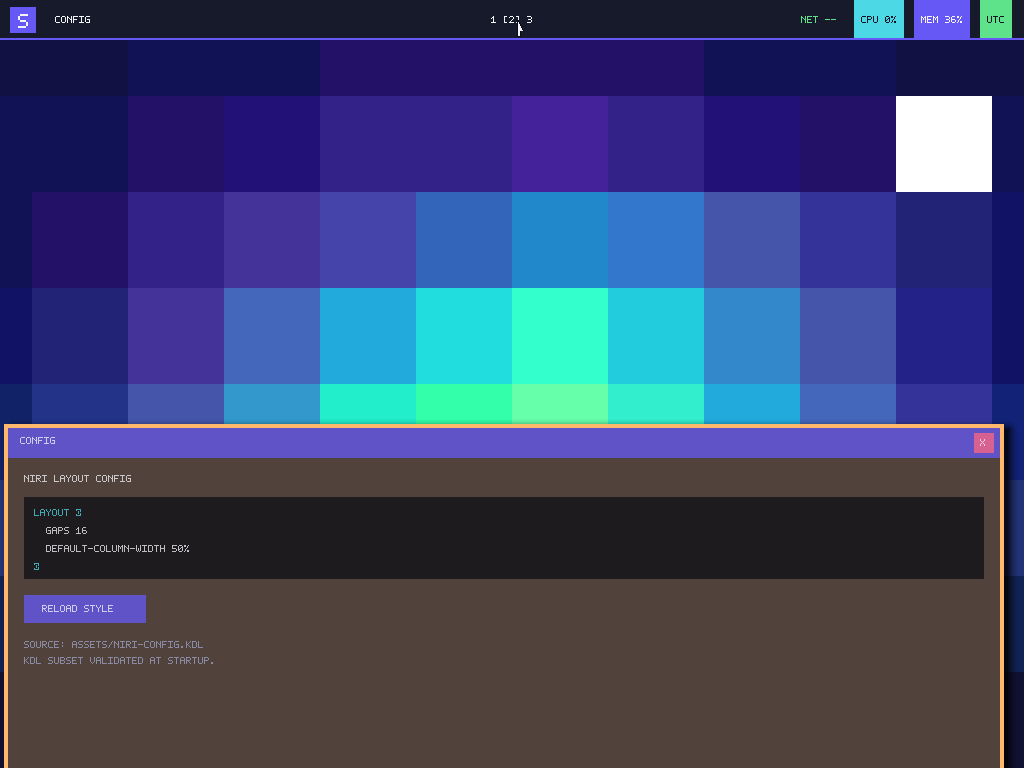
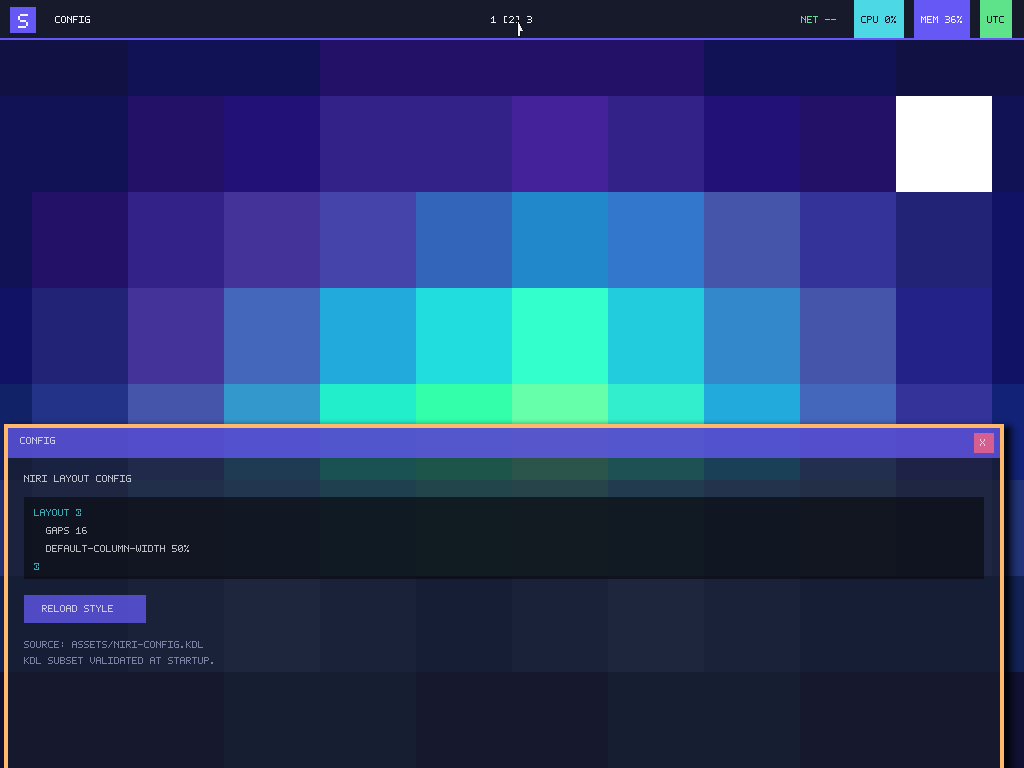
feat(desktop): honor niri border background rules

Changed region(s): [[0.0, 0.5938, 1.0, 1.0]]

diff --git a/kernel/src/desktop.rs b/kernel/src/desktop.rs
@@ -124,6 +124,8 @@ impl Desktop {
             let focus_ring = niri.window_rules.focus_ring_for(app_id, config.focus_ring);
             let border = niri.window_rules.border_for(app_id, config.border);
             let shadow = niri.window_rules.shadow_for(app_id, config.shadow);
+            let draw_border_with_background =
+                niri.window_rules.draw_border_with_background_for(app_id);
             let opacity = niri.window_rules.opacity_for(app_id);
             let floating_position = niri.window_rules.floating_position_for(app_id);
             let floating =
@@ -264,6 +266,11 @@ impl Desktop {
                     shadow.color.opacity,
                     resolved_shadow_color(shadow, false).rgb,
                     resolved_shadow_color(shadow, false).opacity
+                ));
+            }
+            if let Some(draw_border_with_background) = draw_border_with_background {
+                serialln(format_args!(
+                    "SLOPOS-NIRI: window rule app_id={app_id} property=draw-border-with-background value={draw_border_with_background} applied=true source=config"
                 ));
             }
             if let Some(opacity) = opacity {
@@ -844,6 +851,8 @@ impl Desktop {
             let focus_ring = niri.window_rules.focus_ring_for(app_id, layout.focus_ring);
             let border = niri.window_rules.border_for(app_id, layout.border);
             let shadow = niri.window_rules.shadow_for(app_id, layout.shadow);
+            let draw_border_with_background =
+                niri.window_rules.draw_border_with_background_for(app_id);
             let opacity = niri.window_rules.opacity_for(app_id);
             let floating_position = niri.window_rules.floating_position_for(app_id);
             let floating = niri
@@ -995,6 +1004,11 @@ impl Desktop {
                     shadow.color.opacity,
                     resolved_shadow_color(shadow, false).rgb,
                     resolved_shadow_color(shadow, false).opacity
+                ));
+            }
+            if let Some(draw_border_with_background) = draw_border_with_background {
+                serialln(format_args!(
+                    "SLOPOS-NIRI: window rule app_id={app_id} property=draw-border-with-background value={draw_border_with_background} applied=true source=config"
                 ));
             }
             if let Some(opacity) = opacity {
@@ -1239,16 +1253,20 @@ impl Desktop {
             .window_rules
             .shadow_for(app_id(window.kind), self.workspaces.config().shadow)
             .unwrap_or(self.workspaces.config().shadow);
+        let draw_border_with_background = self
+            .niri
+            .window_rules
+            .draw_border_with_background_for(app_id(window.kind))
+            .unwrap_or(true);
         let opacity = self
             .niri
             .window_rules
             .opacity_for(app_id(window.kind))
             .unwrap_or(1000);
         Self::render_shadow(framebuffer, window, shadow, active);
-        // Like niri's default draw-border-with-background mode, decorations
-        // are compositor backgrounds: a translucent surface shows them
-        // through rather than changing their own opacity. Focus ring is only
-        // on the focused window; border remains visible on every window.
+        // With niri's default background mode, translucent client pixels show
+        // the solid compositor decoration underneath. A false window-rule
+        // instead restricts decoration to the area outside the client rect.
         let border_width = if border.enabled {
             i32::from(border.width)
         } else {
@@ -1257,26 +1275,51 @@ impl Desktop {
         if active && focus_ring.enabled {
             let width = i32::from(focus_ring.width);
             let extent = border_width + width;
-            framebuffer.rect(
-                window.x - extent,
-                window.y - extent,
-                window.width + extent * 2,
-                window.height + extent * 2,
-                focus_ring.active_color,
-            );
+            if border.enabled || !draw_border_with_background {
+                render_outline(
+                    framebuffer,
+                    window.x - border_width,
+                    window.y - border_width,
+                    window.width + border_width * 2,
+                    window.height + border_width * 2,
+                    width,
+                    focus_ring.active_color,
+                );
+            } else {
+                framebuffer.rect(
+                    window.x - extent,
+                    window.y - extent,
+                    window.width + extent * 2,
+                    window.height + extent * 2,
+                    focus_ring.active_color,
+                );
+            }
         }
         if border.enabled {
-            framebuffer.rect(
-                window.x - border_width,
-                window.y - border_width,
-                window.width + border_width * 2,
-                window.height + border_width * 2,
-                if active {
-                    border.active_color
-                } else {
-                    border.inactive_color
-                },
-            );
+            let color = if active {
+                border.active_color
+            } else {
+                border.inactive_color
+            };
+            if draw_border_with_background {
+                framebuffer.rect(
+                    window.x - border_width,
+                    window.y - border_width,
+                    window.width + border_width * 2,
+                    window.height + border_width * 2,
+                    color,
+                );
+            } else {
+                render_outline(
+                    framebuffer,
+                    window.x,
+                    window.y,
+                    window.width,
+                    window.height,
+                    border_width,
+                    color,
+                );
+            }
         }
         let previous_opacity = framebuffer.set_opacity(opacity);
         framebuffer.rect(window.x, window.y, window.width, window.height, WINDOW_ALT);
@@ -3021,6 +3064,33 @@ fn module_selector(module: &str) -> &'static str {
 
 fn inside(x: i32, y: i32, window: Window) -> bool {
     x >= window.x && x < window.x + window.width && y >= window.y && y < window.y + window.height
+}
+
+fn render_outline(
+    framebuffer: &mut Framebuffer,
+    x: i32,
+    y: i32,
+    width: i32,
+    height: i32,
+    thickness: i32,
+    color: u32,
+) {
+    if thickness <= 0 || width <= 0 || height <= 0 {
+        return;
+    }
+    let outer_x = x.saturating_sub(thickness);
+    let outer_y = y.saturating_sub(thickness);
+    let outer_width = width.saturating_add(thickness.saturating_mul(2));
+    framebuffer.rect(outer_x, outer_y, outer_width, thickness, color);
+    framebuffer.rect(
+        outer_x,
+        y.saturating_add(height),
+        outer_width,
+        thickness,
+        color,
+    );
+    framebuffer.rect(outer_x, y, thickness, height, color);
+    framebuffer.rect(x.saturating_add(width), y, thickness, height, color);
 }
 
 fn axis_distance(coordinate: i32, start: i32, length: i32) -> i32 {

diff --git a/crates/shell/src/niri.rs b/crates/shell/src/niri.rs
@@ -292,6 +292,7 @@ pub struct NiriWindowRule<'a> {
     pub shadow_draw_behind_window: Option<bool>,
     pub shadow_color: Option<ShadowColor>,
     pub shadow_inactive_color: Option<ShadowColor>,
+    pub draw_border_with_background: Option<bool>,
     pub opacity: Option<i32>,
     pub default_floating_position: Option<FloatingPosition>,
     pub default_column_width: Option<ColumnWidth>,
@@ -521,6 +522,18 @@ impl<'a> NiriWindowRuleList<'a> {
             }
         }
         opacity
+    }
+
+    pub fn draw_border_with_background_for(self, app_id: &str) -> Option<bool> {
+        let mut draw_with_background = None;
+        for rule in self.entries[..self.length].iter().flatten() {
+            if rule.app_id.is_none() || rule.app_id == Some(app_id) {
+                if let Some(value) = rule.draw_border_with_background {
+                    draw_with_background = Some(value);
+                }
+            }
+        }
+        draw_with_background
     }
 
     pub fn column_width_for(self, app_id: &str) -> Option<ColumnWidth> {
@@ -789,6 +802,7 @@ impl<'a> ShellConfigParser<'a> {
             shadow_draw_behind_window: None,
             shadow_color: None,
             shadow_inactive_color: None,
+            draw_border_with_background: None,
             opacity: None,
             default_floating_position: None,
             default_column_width: None,
@@ -867,6 +881,14 @@ impl<'a> ShellConfigParser<'a> {
                 KdlToken::Word("focus-ring") => self.parse_rule_focus_ring(&mut rule)?,
                 KdlToken::Word("border") => self.parse_rule_border(&mut rule)?,
                 KdlToken::Word("shadow") => self.parse_rule_shadow(&mut rule)?,
+                KdlToken::Word("draw-border-with-background") => {
+                    rule.draw_border_with_background = Some(match self.next() {
+                        KdlToken::Word("true") => true,
+                        KdlToken::Word("false") => false,
+                        _ => return Err(NiriConfigError::InvalidWindowRule),
+                    });
+                    self.finish_node()?;
+                }
                 KdlToken::Word("opacity") => {
                     let KdlToken::Word(value) = self.next() else {
                         return Err(NiriConfigError::InvalidWindowRule);
@@ -3260,6 +3282,7 @@ mod tests {
                     color "#1238"
                     inactive-color "#10203040"
                 }
+                draw-border-with-background true
                 default-floating-position x=10 y=20
                 default-column-width { fixed 600; }
                 default-window-height { fixed 400; }
@@ -3292,6 +3315,7 @@ mod tests {
                     draw-behind-window false
                     inactive-color "#4455"
                 }
+                draw-border-with-background false
                 default-floating-position x=-10.4 y=200 relative-to="bottom-left"
                 default-column-width { proportion 0.333; }
                 default-window-height { proportion 0.333; }
@@ -3807,6 +3831,18 @@ mod tests {
         );
         assert_eq!(config.window_rules.opacity_for("slopos-config"), Some(500));
         assert_eq!(
+            config
+                .window_rules
+                .draw_border_with_background_for("slopos-terminal"),
+            Some(true)
+        );
+        assert_eq!(
+            config
+                .window_rules
+                .draw_border_with_background_for("slopos-config"),
+            Some(false)
+        );
+        assert_eq!(
             config.window_rules.focus_ring_for(
                 "slopos-terminal",
                 FocusRing {
@@ -3992,6 +4028,10 @@ mod tests {
         );
         assert_eq!(
             parse_niri_shell_config("window-rule { open-focused maybe; }"),
+            Err(NiriConfigError::InvalidWindowRule)
+        );
+        assert_eq!(
+            parse_niri_shell_config("window-rule { draw-border-with-background maybe; }"),
             Err(NiriConfigError::InvalidWindowRule)
         );
         for input in [

diff --git a/evidence/README.md b/evidence/README.md
@@ -7,7 +7,7 @@
 | `serial.log` | `make test-boot` | OVMF/UEFI、ELF、`ExitBootServices`、XSDT/MADT、memory、两个常驻 CPL3 进程、cooperative/timer switch、policy/config event、eBPF、PCI/virtio INTx、ext4、async 与桌面循环 |
 | `uefi-debugcon.log` | `make test-boot` | loader 独立 debugcon 日志 |
 | `interaction-serial.log` | `make test-interaction` | PS/2 键盘触发 VFS 配置 reload/rollback、embedded 与 root-VFS swww image/clear/query、missing-path 保留旧图，鼠标横拖 viewport、Super+右键缩放、点击 Waybar workspace，`cooldown-ms=150` 双包限流、keyboard 与四组 Mod+IntelliMouse bind 驱动首末列导航/重排、PageUp/PageDown workspace identity 重排、整列/单窗跨 workspace 转移、tiled/floating full-output 与精确恢复、显式与 toggle tiled/floating layer、normal/tabbed display、固定与左右方向合并/拆列、显式/preset 窗高/reset/重排/聚焦、gap-aware resize/maximize/center/expand 与关闭 |
-| `custom-config-serial.log` | `make test-desktop-custom-config` | 4076-byte niri override 的 rule size/tabbed display、`open-focused true`、三种几何 `open-* true` state、`opacity 0.75`、4 px active border、softness/offset/spread/RGBA shadow、`default-floating-position` 与 `focus-ring off` 和 1300-byte Waybar override 一起从临时 ext4 原子应用；记录 Config 自动激活 workspace 2、全屏 decoration/opacity 例外、三级恢复、右下 24px 锚点及移动后位置记忆，Waybar 则经 PID 2 分块 hash、两代 policy、left/center placement、alternate format 与三键/双向滚轮 action 生效 |
+| `custom-config-serial.log` | `make test-desktop-custom-config` | 4082-byte niri override 的 rule size/tabbed display、`open-focused true`、三种几何 `open-* true` state、`opacity 0.75`、`draw-border-with-background false`、4 px active border、softness/offset/spread/RGBA shadow、`default-floating-position` 与 `focus-ring off` 和 1300-byte Waybar override 一起从临时 ext4 原子应用；记录 Config 自动激活 workspace 2、全屏 decoration/opacity 例外、三级恢复、右下 24px 锚点及移动后位置记忆，Waybar 则经 PID 2 分块 hash、两代 policy、left/center placement、alternate format 与三键/双向滚轮 action 生效 |
 | `custom-config-uefi-debugcon.log` / `custom-config-qemu.log` | `make test-desktop-custom-config` | 自定义配置回归的 loader 与 QEMU 输出 |
 | `page-fault-serial.log` | `make test-page-fault` | 自有页表的未映射访问、vector 14、error、RIP、CR2 与 fatal boundary |
 | `journal-injection-serial.log` | `make test-journal-replay` phase 1 | commit 已 flush、home 尚未 checkpoint 的 dirty disk |
@@ -71,7 +71,7 @@
 | `waybar-workspace-click.png` | `make test-interaction` | 点击顶部数字 `2` 后 `niri/workspaces` 显示 active 2，并切入 Config surface |
 | `custom-config-workspace-click.png` | `make test-desktop-custom-config` | KDL `open-focused true` 在配置发布时直接激活 workspace `2`，并显示由 `open-fullscreen true` 产生的 Config x=0/y=0/1024×768；测试对被覆盖 bar 的点击不会导致这个状态，Waybar、装饰与兄弟窗均不可见；x=200/y=350 像素为不透明 `171c2b`，证明 fullscreen 忽略 `opacity 0.75` |
 | `custom-config-edge-maximized.png` | `make test-desktop-custom-config` | 对初始 fullscreen Config 执行 `Mod+Shift+F` 后，精确恢复底层 x=0/y=40/1024×728 edge maximize；Waybar 重新可见，layout gap/border 仍移除 |
-| `custom-config-default-column-width.png` | `make test-desktop-custom-config` | 再执行 `Mod+M` 与 `Mod+F` 后，先恢复底层 992×340 column maximize，再恢复 KDL app rule 的 66.7%×50% 初始尺寸 x=184/y=56/656×340；左侧单 tab 指示条仍可见，Config 的青色 focus ring 按规则消失，4 px `ffb86c` active border 与向右下偏移的软阴影可见；default background-mode 下 `opacity 0.75` 让 border 背景透过 surface，脚本精确核对 x=200/800、y=350 均为 `51433b`，x=182/y=350 为 `ffb86c`，x=844/y=200 为 shadow 合成后的 `0a0a1f`，第二次 `Mod+F` 只把宽度恢复为 992 px |
+| `custom-config-default-column-width.png` | `make test-desktop-custom-config` | 再执行 `Mod+M` 与 `Mod+F` 后，先恢复底层 992×340 column maximize，再恢复 KDL app rule 的 66.7%×50% 初始尺寸 x=184/y=56/656×340；左侧单 tab 指示条仍可见，Config 的青色 focus ring 按规则消失，4 px `ffb86c` active border 与向右下偏移的软阴影可见；`draw-border-with-background false` 让 `opacity 0.75` 的 surface 透出壁纸，脚本精确核对 x=200/800、y=350 分别为 `222247`/`222a4b`，x=182/y=350 为 `ffb86c`，x=844/y=200 为 shadow 合成后的 `0a0a1f`，第二次 `Mod+F` 只把宽度恢复为 992 px |
 | `custom-config-floating-position.png` | `make test-desktop-custom-config` | `Mod+Alt+V` 对 992×340 Config 应用 `x=24 y=24 relative-to="bottom-right"`，得到 x=8/y=404，精确保留右、下各 24 px working-area 间距 |
 | `custom-config-floating-remembered.png` | `make test-desktop-custom-config` | Config 向下移动到 y=428 后经历 floating→tiling→floating，仍恢复 x=8/y=428，而不是重新应用默认 y=404 |
 | `custom-config-on-click.png` | `make test-desktop-custom-config` | JSONC 为右侧 clock 配置 `format-alt: UTC ALT` 与 `on-click: status`；同一次左击切到 alternate format、显示 STATUS 响应，并保留 Terminal 中尚未执行的 `ABO` |
@@ -110,13 +110,13 @@ qemu-system-x86_64
 
 PID 2 首轮打开 inode 20 Waybar JSONC，以 offset 0/256/512/768 的四个 chunk 读齐默认 904 bytes并验证 EOF，再打开 inode 17 swww environment，读齐默认 172 bytes并验证 EOF；读取器允许非空 Waybar/swww 分别扩展至 4096/512 bytes。`SLOPOS-DESKTOP-SERVICE` submission marker 记录 protocol 1、40-byte commit、`waybar-provider/swww-policy` capability、CPU 0、Memory 36、Aurora，以及实际 VFS hash `0xd34d4a92c88d065b`/`0xc5edd6e5c5369f52`；私有 syscall marker 记录编号 `1397489665` 与 result 0。第二个私有 syscall（`1397489666`）以 32-byte user buffer、event kind 与 `after_generation` 进入 Blocked；desktop task随后记录 snapshot generation 1、相同 owner/capability/provider 值及 kernel renderer boundary，swww marker 证明初始 Aurora 只在 policy 到达后应用。ack marker 再唤醒 block task，completion marker 记录 `Blocked → Runnable`、`policy-applied` generation 1；PID 2 decode event 后只在首次写一次 ready message，然后等待 `config-applied`。
 
-`make test-desktop-custom-config` 不修改仓库标准镜像：脚本复制 ESP/rootfs，用 `debugfs` 在临时 ext4 中把默认 3829-byte niri KDL 替换成 4076-byte 用户文件，将 Config 的 `open-maximized false`、`open-maximized-to-edges false`、`open-fullscreen false` 与 `open-focused false` 都改为 true、`default-column-width` 从 proportion 0.5 改为 0.667、`default-window-height` 从 proportion 1.0 改为 0.5、`default-column-display` 从 normal 改为 tabbed，并加入 `focus-ring { off; }`、4 px `#ffb86c` border、softness 8/spread 2/offset `(6,4)`/active `#000c`/inactive `#0006` shadow 与 `opacity 0.75`；同时把 inode 20 替换成 1300-byte、仍可解析的 Waybar JSONC，把 `niri/window`/`niri/workspaces` 分别放到 left/center，并为 clock 配置 `format-alt: UTC ALT`、三键与双向滚轮 action。config generation 1 marker 先记录 Config 因 `open-focused true` 在 workspace 2 成为 `focused=2 activated=true`，并依次记录 x=16/y=56/992×340 的 `mode=maximized-column`、x=0/y=40/1024×728 的 `mode=maximized-to-edges` 与 x=0/y=0/1024×768 的 `mode=fullscreen`；decoration/opacity marker 记录 active `0xffb86c`、border width 4、完整 shadow 参数与 `value=750/1000 fullscreen_ignored=true`。首张截图证明无需可见 Waybar 点击即可进入该状态，Waybar、装饰和兄弟窗被覆盖，脚本又核对 x=200/y=350 为不透明 surface 色 `171c2b`。`Mod+Shift+F` marker 与第二张截图恢复 edge state，`Mod+M` geometry log 再恢复 992×340，随后两次 `Mod+F` marker 记录 656→992；第三张截图证明中间列位于 x=184、规则高度保持 340、tab 指示条没有消失、窗口 focus ring 已关闭且 4 px 橙色 active border 与右下软阴影可见。niri 默认 background-mode 令 0.75-alpha `WINDOW_ALT` 与 border 背景合成；脚本核对同一 y=350 上 x=200/800 两点均为 `51433b`，x=182 为边框色 `ffb86c`，x=844/y=200 为 0.8-alpha 黑色 shadow 把 Aurora `333399` 合成后的 `0a0a1f`。随后首次移入 floating 得到 x=8/y=404/992×340 的右下 24px 锚点；向下移动到 y=428、送回 tiling 再移入 floating 后仍恢复该 rect，另两张截图与 applied/remembered marker 共同证明会话内位置记忆。`custom-config-serial.log` 还证明 IntelliMouse 协商为 `wheel=true`；PID 2 在 policy generation 1 与 config generation 1 唤醒后的 generation 2 都读到 1300 bytes，并两次提交新的 Waybar hash `0xb001e9dac40c640b`，而不是默认 `0xd34d4a92c88d065b`，swww hash 保持不变。末尾 marker 为 `desktop service parked ... after_generation=1`；退出 fullscreen 后真实 PS/2 点击中央 workspace `1`/`2`/`1` 往返，终端仍收到尚未执行的 `ABO`，证明强制 Config 焦点没有覆写 main 的旧 Terminal 局部焦点。左击右侧 clock 后日志先记录 `alternate=true text="UTC ALT"`，再记录 action accepted 与 `command=STATUS`，截图保留 `ABO` 输入；补入 `UT` 后又产生 `command=ABOUT`，右击产生 HELP，中击产生 SWWW QUERY；滚轮 `dz=-1/+1` 分别记录 `scroll-up/scroll-down`，无过渡切到 Sunset 再回 Aurora；第二次左击记录 `alternate=false text="UTC"` 并再次执行 STATUS。十一张截图覆盖 opening focus、fullscreen/edge/column/rule 四态与显示恢复、workspace、alternate 往返、输入保持/STATUS、HELP、query 与两向滚轮壁纸。全程没有 exit/FATAL，宿主 `e2fsck -fn` 也接受测试副本。这覆盖有效自定义 niri/Waybar 文件、app-specific 初始宽高/动态列显示/window focus ring/border/shadow/opacity/显式 opening focus/三级 opening state 恢复/浮动锚点与位置记忆、module placement、alternate format、点击几何、三键/滚轮受限 action 和输入缓冲保持，不覆盖自动文件监听、POSIX shell 或完整配置 schema。
+`make test-desktop-custom-config` 不修改仓库标准镜像：脚本复制 ESP/rootfs，用 `debugfs` 在临时 ext4 中把默认 3797-byte niri KDL 替换成 4082-byte 用户文件，将 Config 的 `open-maximized false`、`open-maximized-to-edges false`、`open-fullscreen false` 与 `open-focused false` 都改为 true、`default-column-width` 从 proportion 0.5 改为 0.667、`default-window-height` 从 proportion 1.0 改为 0.5、`default-column-display` 从 normal 改为 tabbed，并加入 `focus-ring { off; }`、4 px `#ffb86c` border、softness 8/spread 2/offset `(6,4)`/active `#000c`/inactive `#0006` shadow、`draw-border-with-background false` 与 `opacity 0.75`；同时把 inode 20 替换成 1300-byte、仍可解析的 Waybar JSONC，把 `niri/window`/`niri/workspaces` 分别放到 left/center，并为 clock 配置 `format-alt: UTC ALT`、三键与双向滚轮 action。config generation 1 marker 先记录 Config 因 `open-focused true` 在 workspace 2 成为 `focused=2 activated=true`，并依次记录 x=16/y=56/992×340 的 `mode=maximized-column`、x=0/y=40/1024×728 的 `mode=maximized-to-edges` 与 x=0/y=0/1024×768 的 `mode=fullscreen`；decoration/opacity marker 记录 active `0xffb86c`、border width 4、完整 shadow 参数、background-mode false 与 `value=750/1000 fullscreen_ignored=true`。首张截图证明无需可见 Waybar 点击即可进入该状态，Waybar、装饰和兄弟窗被覆盖，脚本又核对 x=200/y=350 为不透明 surface 色 `171c2b`。`Mod+Shift+F` marker 与第二张截图恢复 edge state，`Mod+M` geometry log 再恢复 992×340，随后两次 `Mod+F` marker 记录 656→992；第三张截图证明中间列位于 x=184、规则高度保持 340、tab 指示条没有消失、窗口 focus ring 已关闭且 4 px 橙色 active border 与右下软阴影可见。background-mode false 将 border 限制在 surface 外；脚本核对同一 y=350 上 x=200/800 两点分别为 0.75-alpha `WINDOW_ALT` 与 Aurora 不同采样块合成后的 `222247`/`222a4b`，x=182 为边框色 `ffb86c`，x=844/y=200 为 0.8-alpha 黑色 shadow 把 Aurora `333399` 合成后的 `0a0a1f`。随后首次移入 floating 得到 x=8/y=404/992×340 的右下 24px 锚点；向下移动到 y=428、送回 tiling 再移入 floating 后仍恢复该 rect，另两张截图与 applied/remembered marker 共同证明会话内位置记忆。`custom-config-serial.log` 还证明 IntelliMouse 协商为 `wheel=true`；PID 2 在 policy generation 1 与 config generation 1 唤醒后的 generation 2 都读到 1300 bytes，并两次提交新的 Waybar hash `0xb001e9dac40c640b`，而不是默认 `0xd34d4a92c88d065b`，swww hash 保持不变。末尾 marker 为 `desktop service parked ... after_generation=1`；退出 fullscreen 后真实 PS/2 点击中央 workspace `1`/`2`/`1` 往返，终端仍收到尚未执行的 `ABO`，证明强制 Config 焦点没有覆写 main 的旧 Terminal 局部焦点。左击右侧 clock 后日志先记录 `alternate=true text="UTC ALT"`，再记录 action accepted 与 `command=STATUS`，截图保留 `ABO` 输入；补入 `UT` 后又产生 `command=ABOUT`，右击产生 HELP，中击产生 SWWW QUERY；滚轮 `dz=-1/+1` 分别记录 `scroll-up/scroll-down`，无过渡切到 Sunset 再回 Aurora；第二次左击记录 `alternate=false text="UTC"` 并再次执行 STATUS。十一张截图覆盖 opening focus、fullscreen/edge/column/rule 四态与显示恢复、workspace、alternate 往返、输入保持/STATUS、HELP、query 与两向滚轮壁纸。全程没有 exit/FATAL，宿主 `e2fsck -fn` 也接受测试副本。这覆盖有效自定义 niri/Waybar 文件、app-specific 初始宽高/动态列显示/window focus ring/border/shadow/background-mode/opacity/显式 opening focus/三级 opening state 恢复/浮动锚点与位置记忆、module placement、alternate format、点击几何、三键/滚轮受限 action 和输入缓冲保持，不覆盖自动文件监听、POSIX shell 或完整配置 schema。
 
 当前五条主要 QEMU 日志都出现 `userspace runtime parked init=wait4 desktop=config-applied`；初始 VFS config generation 1 的 acknowledge 唤醒 PID 2，服务重读两份文件、提交并收到 policy generation 2，随后在 `after_generation=1` 再次稳定休眠。交互日志进一步证明 config generation 2 唤醒 service 并产生 policy generation 3；非法 reload 保留 config generation 2，没有 policy generation 4。脚本同时拒绝任何 `state=exited` 或 `FATAL`。`make test-process` 的 6 项宿主测试另行覆盖 child-exit wake、immediate zombie reap、initial stack、Blocked/Runnable/round-robin、PID/parent/child lookup/lifecycle、exit cleanup 和 per-process fd isolation/seek。当前证据不证明任意 exec、多 segment mapping、动态并发 syscall、通用 wait selector/options/orphan adoption 或通用 namespace mutation。
 
 ELF parser 的宿主测试由 `make test-elf` 执行。10 项测试验证 ELF64 little-endian/x86-64/`ET_EXEC` header、program-header table、`PT_LOAD` data/BSS view，并拒绝 truncation、越界、`p_filesz > p_memsz`、非法 alignment/congruence、重叠 segment、W+X 与不属于 executable segment 的 entry。parser 无分配且 `no_std`；section header 与 dynamic linking 不参与当前装载。
 
-shell/protocol 状态机由 `make test-shell` 验证。20 项 layout 测试覆盖 niri KDL、稳定 strip coordinate、相邻/首末列 focus+reorder、scroll/center/expand/normal+tabbed stack/consume+expel/gap-aware resize+maximize/close、app-specific 初始列宽高与拆列 display、指定非焦点列的 column/edge 初始最大化及完整列/单窗原子转移；10 项 niri shell 测试覆盖 named/anonymous workspace identity 与整体 reorder、80 项有界 keyboard/wheel bind 表、`cooldown-ms` 解析/拒绝、ordered workspace/`default-column-width`/`default-window-height`/`default-column-display`/`default-floating-position`/window `focus-ring`/`border`/`shadow`/`opacity`/`open-floating`/`open-focused`/`open-maximized`/`open-maximized-to-edges`/`open-fullscreen` rule、decoration/opacity parse 与 reject、tiled/floating 初始 geometry、opening focus、opening/workspace/floating→tiling display 与 layer focus/move/resize/fullscreen、column/window workspace transfer 和动态 normalize；4 项 Waybar JSONC/format、3 项 CSS、7 项 swww 与 5 项 desktop protocol 测试覆盖各自 parse/state/reject 边界，共 49 项。裸机从 `/etc/slopos/{niri.kdl,waybar.jsonc,waybar.css,swww.env}` 原子发布 config generation 1；apply marker 记录 3 个 workspace、71 个 bind、6 个 Waybar module config 与 12 条 CSS rule，PID 2 随后重读并发布 policy generation 2。
+shell/protocol 状态机由 `make test-shell` 验证。20 项 layout 测试覆盖 niri KDL、稳定 strip coordinate、相邻/首末列 focus+reorder、scroll/center/expand/normal+tabbed stack/consume+expel/gap-aware resize+maximize/close、app-specific 初始列宽高与拆列 display、指定非焦点列的 column/edge 初始最大化及完整列/单窗原子转移；10 项 niri shell 测试覆盖 named/anonymous workspace identity 与整体 reorder、80 项有界 keyboard/wheel bind 表、`cooldown-ms` 解析/拒绝、ordered workspace/`default-column-width`/`default-window-height`/`default-column-display`/`default-floating-position`/window `focus-ring`/`border`/`shadow`/`draw-border-with-background`/`opacity`/`open-floating`/`open-focused`/`open-maximized`/`open-maximized-to-edges`/`open-fullscreen` rule、decoration/opacity parse 与 reject、tiled/floating 初始 geometry、opening focus、opening/workspace/floating→tiling display 与 layer focus/move/resize/fullscreen、column/window workspace transfer 和动态 normalize；4 项 Waybar JSONC/format、3 项 CSS、7 项 swww 与 5 项 desktop protocol 测试覆盖各自 parse/state/reject 边界，共 49 项。裸机从 `/etc/slopos/{niri.kdl,waybar.jsonc,waybar.css,swww.env}` 原子发布 config generation 1；apply marker 记录 3 个 workspace、71 个 bind、6 个 Waybar module config 与 12 条 CSS rule，PID 2 随后重读并发布 policy generation 2。
 
 在既有 swww 回归之后，workspace transfer marker 先把 Terminal/System 合并：`move-window-to-workspace 2` 只将 focused System 送到 Config 右侧全高列，named action 送回后 main 恢复两列；再次合并后，`move-column-to-workspace 2` 将两窗 stack 一起送入 Config，二者同在 x=520 并各高 340，named action 送回时仍在 x=268 上下排列。第二次单窗往返再拆回两列并聚焦 Terminal。扩展 PS/2 marker 随后让 `Mod+End` 聚焦末列 System，`Mod+Ctrl+Home` 把它移到 x=16 首端，`Mod+Ctrl+End` 恢复至 x=520，`Mod+Home` 再聚焦首列 Terminal。`Mod+Shift+PageDown` 把包含两窗的 named `main` 连同焦点从 workspace 1 移到 2，日志保留 `previous=1`；重排中的 `Mod+Alt+C/M` 分别命中已位于 1/2 的 `config`/`main`，证明名称解析跟随 identity，`Mod+Shift+PageUp` 再恢复 `main` 到 workspace 1 和 `previous=2`。随后 QMP 只显式保持跨键鼠设备的 modifier key-down，QEMU i8042 仍为每次滚动生成 PS/2 IntelliMouse packet：`Mod` 的 `0x1` 双包 burst 先在 config 停留并抑制第二包，再与 main 往返，`Mod+Shift` 的 `0x5` 在 Terminal/System 往返聚焦，`Mod+Ctrl` 的 `0x3` 把 System 整列送到 config 后送回原 x=520，`Mod+Ctrl+Shift` 的 `0x7` 把 Terminal 右移至 x=520 后恢复 x=16。未匹配的无修饰滚轮仍由独立 custom-config 回归中的 Waybar clock action 消费。`Mod+Shift+F` 紧接着令 tiled Terminal 覆盖 x=0/y=0/1024×768，点击原 workspace 2 的隐藏 bar 坐标不会产生额外 Waybar marker，退出后恢复 x=16/y=56/488×696。随后显式 floating marker 证明 `Mod+Alt+V` 把 Terminal 移到 x=16/y=161/488×485，同一全屏动作也能覆盖 output 并精确恢复该 floating rect；`Mod+Alt+T`/`Mod+Alt+G` 精确聚焦下层 System/上层 Terminal，`Mod+Ctrl+V` 再把 Terminal 送回 x=520 tile。重排回左侧后，既有 toggle marker 继续证明 `Mod+V` 产生同一浮窗、`Mod+Shift+V` 在两层间双向切焦点、`Mod+Ctrl+J` 把浮窗下移到 y=211，第二次 `Mod+V` 将它送回 x=520 tile；原有完整 tiled 回归因而仍从相同初态执行。
 
@@ -136,7 +136,7 @@ virtio layout 测试由 `make test-virtio` 执行。4 项宿主测试包含 read
 
 ext4 parser 测试由 `make test-ext4` 执行。裸机日志证明 4096-byte block、65536 blocks、32 inodes、2 groups、group 0 inode table 37、root extent 39 和 6 个 root entries；superblock/group/inode/directory checksum 均由内核校验。`/sbin/slop-init` 是 inode 23、26344 bytes/seven blocks，`/sbin/slop-shell` 是 inode 24、26560 bytes/seven blocks。6144-byte `vfs-wallpaper.ppm` 是 inode 30，像素后的单一 PNM comment 补齐第二块，所以继续承担 multiblock/prefetch probe并能被 swww path loader 完整 parse；`deep-extent.bin` 是 inode 28，后者从 root index 进入 leaf block 104，验证 extent-block checksum 后读取 logical block 8 的 physical block 111，并将 logical block 7 的 hole 零填充。inode 29 的两个目录块均经 checksum parser，目标 hard link 在第二块解析为 inode 21。path walker 还从 inode 14 取得 inline target，并在同一父目录解析到 inode 21。
 
[2 lines of base64/hex data omitted]
 
 JBD2 宿主测试解析 big-endian v2 superblock，并拒绝 truncation、非法 geometry 和未知 feature；round-trip/corruption 测试覆盖 descriptor/data/commit，状态测试覆盖 ext4 recovery-bit CRC32C 恢复与 JBD2 sequence/start 转换。裸机 marker 证明 journal inode 8 的单一 extent 从 physical block 32801 开始，superblock 报告 4096 blocks、first 1、sequence 1、start 0、users 1、零 feature words，UUID 与 ext4 匹配。它不证明 journal clean 或 replay。
 

diff --git a/docs/status.md b/docs/status.md
@@ -4,7 +4,7 @@
 
 | 规格范围 | 状态 | 当前证据与边界 |
 |---|---|---|
-| 原生图形桌面 | 部分实现 | QEMU 中三个 surface 已进入独立 workspace 的 niri 式 tiled strip + floating layer；浮窗始终盖在 tile 上且不随 viewport 滚动，KDL toggle、显式 floating/tiling move、切换或显式 layer focus、有序 `default-column-width`/`default-window-height`/`default-column-display`/`open-floating`/`default-floating-position`/window `focus-ring`/`border`/`shadow`/`opacity`/`open-focused`/`open-maximized`/`open-maximized-to-edges`/`open-fullscreen`、方向 move、标题栏移动与 pointer resize 已实现。规则初始宽高同时作用于 tiled/floating，动态 display 作用于 opening、拆列、单窗跨 workspace 和 floating→tiling；focus ring 只标示 active window，border 为所有普通窗选择 active/inactive 色，shadow 支持 offset/spread/softness/draw-behind 与 RGBA active/inactive 色；非全屏 opacity 对后方 decoration/background 做逐通道 alpha blend，全屏强制 1.0 并省略 decoration。custom niri 实机回归证明 `open-focused true` 会让 Config 激活其后台 workspace，同时保留 main 的旧 Terminal 局部焦点，并可从覆盖 Waybar 的 x=0/y=0/1024×768 fullscreen，依次恢复为 x=0/y=40/1024×728 edge maximize、x=16/y=56/992×340 column maximize 与 x=184/656×340 的 app-specific 66.7%×50% 初始尺寸及 tab 指示条，并按 window rule 关闭 Config focus ring、启用 4 px 橙色 border、软阴影与 0.75 opacity；随后 `default-floating-position` 产生右下 24px 浮窗，移动后的 rect 经 tiling 往返仍恢复。tiled 部分另有 normal/tabbed column、preset/explicit width+height、column+edge maximize、single/focused/visible center、available-width expand、固定/方向 consume+expel、focus/reorder、动态 workspace 与 rule。`fullscreen-window` 可让 tiled/floating focused surface 无装饰覆盖完整 output、Waybar 与兄弟窗，并在退出后恢复原 layer 和精确几何；workspace reorder 又会整体保留名称、两层 layout、fullscreen/focus 与 previous 身份。官方 PageUp/PageDown aliases、150 ms 双包冷却与四组 Mod+IntelliMouse workspace/column wheel bindings 均已在裸机验证。PID 2 `/sbin/slop-shell` 仍作为常驻 provider/policy 服务跨 reload 休眠与恢复；compositor、surface 与 renderer 是 kernel early mechanism。 |
+| 原生图形桌面 | 部分实现 | QEMU 中三个 surface 已进入独立 workspace 的 niri 式 tiled strip + floating layer；浮窗始终盖在 tile 上且不随 viewport 滚动，KDL toggle、显式 floating/tiling move、切换或显式 layer focus、有序 `default-column-width`/`default-window-height`/`default-column-display`/`open-floating`/`default-floating-position`/window `focus-ring`/`border`/`shadow`/`draw-border-with-background`/`opacity`/`open-focused`/`open-maximized`/`open-maximized-to-edges`/`open-fullscreen`、方向 move、标题栏移动与 pointer resize 已实现。规则初始宽高同时作用于 tiled/floating，动态 display 作用于 opening、拆列、单窗跨 workspace 和 floating→tiling；focus ring 只标示 active window，border 为所有普通窗选择 active/inactive 色，shadow 支持 offset/spread/softness/draw-behind 与 RGBA active/inactive 色；非全屏 opacity 对后方 decoration/background 做逐通道 alpha blend，background-mode 可选择实色填充或 surface 外空心边，全屏强制 1.0 并省略 decoration。custom niri 实机回归证明 `open-focused true` 会让 Config 激活其后台 workspace，同时保留 main 的旧 Terminal 局部焦点，并可从覆盖 Waybar 的 x=0/y=0/1024×768 fullscreen，依次恢复为 x=0/y=40/1024×728 edge maximize、x=16/y=56/992×340 column maximize 与 x=184/656×340 的 app-specific 66.7%×50% 初始尺寸及 tab 指示条，并按 window rule 关闭 Config focus ring、启用 4 px 橙色空心 border、软阴影、`draw-border-with-background false` 与 0.75 opacity；随后 `default-floating-position` 产生右下 24px 浮窗，移动后的 rect 经 tiling 往返仍恢复。tiled 部分另有 normal/tabbed column、preset/explicit width+height、column+edge maximize、single/focused/visible center、available-width expand、固定/方向 consume+expel、focus/reorder、动态 workspace 与 rule。`fullscreen-window` 可让 tiled/floating focused surface 无装饰覆盖完整 output、Waybar 与兄弟窗，并在退出后恢复原 layer 和精确几何；workspace reorder 又会整体保留名称、两层 layout、fullscreen/focus 与 previous 身份。官方 PageUp/PageDown aliases、150 ms 双包冷却与四组 Mod+IntelliMouse workspace/column wheel bindings 均已在裸机验证。PID 2 `/sbin/slop-shell` 仍作为常驻 provider/policy 服务跨 reload 休眠与恢复；compositor、surface 与 renderer 是 kernel early mechanism。 |
 | Rust 实现语言 | 已实现并验证（当前代码范围） | loader、kernel、UI、输入和脚本所对应的 SlopOS 源码均为 Rust；x86 汇编限于 port/interrupt/CR3/CPL transition 边界。 |
 | UEFI 引导 | 已实现并验证 | 独立 loader 加载 ELF kernel、Rust userspace ELF 校验副本、ACPI、GOP、bootstrap image、memory map，调用 `ExitBootServices` 并跳入内核；实际 PID 1 bytes 后续来自 ext4 root。 |
 | 异步内核 | 部分实现 | 三任务 `Future` executor、task-ready bit queue、RawWaker、PIT timer、PS/2 input 与 virtio block INTx→waker→completion 已在 QEMU 运行；PID 1/2 的同步 `openat/read/write/close` 会保存各自 user frame、转为 Blocked 并返回 block task 异步等待 I/O，completion 再转为 Runnable、恢复对应 CR3/frame，而不是 busy-wait。100 Hz tick 还会在 CPL3 保存完整 interrupt frame并返回 block-task scheduler，kernel future 自身仍为 cooperative。动态 task arena、timer wheel、locks、cancellation、通用 backpressure 和 SMP 尚未实现。 |
@@ -13,8 +13,8 @@
 | ext4/btrfs 文件系统 | 部分实现 | QEMU 完成 VFS ELF 多块读取、fd 原位 write、五 tag block allocation/extent growth 和 inode 32/directory create→fd open→unlink transaction；两阶段重启验证 mount-time replay。mutation 仍是固定启动回归流程，btrfs 未实现。 |
 | VFS 与文件描述符 | 部分实现 | `no_std` path/mount/fd crate 有 5 项宿主测试；QEMU 把 ext4 挂到 `/` 并取得两个实际 user image。PID 1/2 的独立 fd table 在交错执行中同时各自取得 fd 3 读取配置；PID 1 另以 `O_RDWR` + `lseek/write/read` 对 inode 31 完成跨两页的可逆 64-byte patch并显式 close。PID 2 每次有效 config generation 都重新 open/read/close Waybar 与 swww；swww image broker 另让同一个 block task 按命令路径跨两个 block 读取 inode 30 的 6144-byte P3。kernel probe fd 另可 EOF 单块 append/truncate，并以读写模式打开刚创建的空文件。mount/backing object 仍是单一 block task 专用，用户 copy 限于已知 code/two-page stack mappings 与 256 bytes，尚非通用 POSIX VFS。 |
 | 设备与驱动 | 部分实现 | GOP、COM1、QEMU debugcon、PS/2 键鼠可用，IntelliMouse ID 3/4 协商后可解码四字节滚轮包并回退标准三字节包；校验 XSDT/MADT，自有 GDT/IDT、xAPIC/IOAPIC、100 Hz PIT；PCI/modern virtio-blk 支持 read/write/flush。抢占产生的合法 cache 交错会改变 clean-boot 绝对请求数，测试核对 `requests = interrupts + 1` 且 top-half/queue interrupt 相等。没有通用 descriptor allocator、MSI-X、其他设备类或 application processor。 |
-| 图形系统与 Wayland | 部分实现 | framebuffer renderer、niri 式 tiled/floating workspace/keyboard+wheel bind/cooldown/ordered open+focus+width+height+display+focus-ring+border+shadow+opacity+maximize+fullscreen rule/normal+tabbed stack/fixed+directional consume/expel/focus+reorder+explicit/preset resize+column/edge maximize+fullscreen+center/expand/direct move、首末列 focus/reorder、完整 workspace reorder，以及语义分离的整列/单窗跨 workspace 转移可用；Waybar JSONC normal/alternate format + format-alt-click + 受限三键/滚轮 action + CSS 顶栏及 workspace 点击、swww daemon state/CLI/PNM/clear/CPU transition 与 8 KiB root VFS P3 path load 可用。44 项 shell + 5 项 protocol 测试及真实 custom `default-column-width`/`default-window-height`/`default-column-display`/`default-floating-position`/window `focus-ring`/`border`/`shadow`/`opacity`/`open-focused`/`open-maximized`/`open-maximized-to-edges`/`open-fullscreen` 聚焦、decoration/alpha 像素与三级恢复、Mod+IntelliMouse、workspace identity reorder、full-output restore、strip-boundary、column/window transfer、floating/tabbed/跨 reload/action/样式/异步换图回归通过。仍无可连接 Wayland transport/shared surface buffer、client-driven xdg fullscreen/maximize、真实 Waybar hardware provider/POSIX shell action/完整 GTK CSS；PID 2 是 policy/provider，不是用户态 compositor、独立 bar surface 或 layer-shell client。 |
-| 声明式配置 | 部分实现 | niri KDL、Waybar JSONC/CSS 与 swww environment 按 user/system/fallback 顺序从 root VFS 发现；双 static bank 会先验证四份文本，再按 generation 原子发布。交互测试已验证 config generation 1→2 唤醒 PID 2、policy generation 2→3，以及非法 CSS 保留 generation 2且不唤醒服务；custom-config 回归同时注入单页上限内的 4076-byte niri 与 1300-byte Waybar override，验证 ordered `default-column-width`/`default-window-height`/`default-column-display`/`default-floating-position`/window `focus-ring`/`border`/`shadow`/`opacity`/`open-focused`/`open-maximized`/`open-maximized-to-edges`/`open-fullscreen` 的实际焦点、几何、显示、decoration/alpha/fullscreen 例外、三级恢复与浮动位置记忆、PID 2 有界分块 hash/连续发布、left/center module placement、clock alternate format 和三键/双向滚轮 action 驱动渲染与壁纸切换。仍无文件 watcher/inotify、普通配置编辑器、结构化 diff，配置发现/parser 也仍属于 kernel service。 |
+| 图形系统与 Wayland | 部分实现 | framebuffer renderer、niri 式 tiled/floating workspace/keyboard+wheel bind/cooldown/ordered open+focus+width+height+display+focus-ring+border+shadow+background-mode+opacity+maximize+fullscreen rule/normal+tabbed stack/fixed+directional consume/expel/focus+reorder+explicit/preset resize+column/edge maximize+fullscreen+center/expand/direct move、首末列 focus/reorder、完整 workspace reorder，以及语义分离的整列/单窗跨 workspace 转移可用；Waybar JSONC normal/alternate format + format-alt-click + 受限三键/滚轮 action + CSS 顶栏及 workspace 点击、swww daemon state/CLI/PNM/clear/CPU transition 与 8 KiB root VFS P3 path load 可用。44 项 shell + 5 项 protocol 测试及真实 custom `default-column-width`/`default-window-height`/`default-column-display`/`default-floating-position`/window `focus-ring`/`border`/`shadow`/`draw-border-with-background`/`opacity`/`open-focused`/`open-maximized`/`open-maximized-to-edges`/`open-fullscreen` 聚焦、decoration/alpha 像素与三级恢复、Mod+IntelliMouse、workspace identity reorder、full-output restore、strip-boundary、column/window transfer、floating/tabbed/跨 reload/action/样式/异步换图回归通过。仍无可连接 Wayland transport/shared surface buffer、client-driven xdg fullscreen/maximize、真实 Waybar hardware provider/POSIX shell action/完整 GTK CSS；PID 2 是 policy/provider，不是用户态 compositor、独立 bar surface 或 layer-shell client。 |
+| 声明式配置 | 部分实现 | niri KDL、Waybar JSONC/CSS 与 swww environment 按 user/system/fallback 顺序从 root VFS 发现；双 static bank 会先验证四份文本，再按 generation 原子发布。交互测试已验证 config generation 1→2 唤醒 PID 2、policy generation 2→3，以及非法 CSS 保留 generation 2且不唤醒服务；custom-config 回归同时注入单页上限内的 4082-byte niri 与 1300-byte Waybar override，验证 ordered `default-column-width`/`default-window-height`/`default-column-display`/`default-floating-position`/window `focus-ring`/`border`/`shadow`/`draw-border-with-background`/`opacity`/`open-focused`/`open-maximized`/`open-maximized-to-edges`/`open-fullscreen` 的实际焦点、几何、显示、decoration/alpha/fullscreen 例外、三级恢复与浮动位置记忆、PID 2 有界分块 hash/连续发布、left/center module placement、clock alternate format 和三键/双向滚轮 action 驱动渲染与壁纸切换。仍无文件 watcher/inotify、普通配置编辑器、结构化 diff，配置发现/parser 也仍属于 kernel service。 |
 | 文本编辑器 | 尚未实现 | kernel monitor 只编辑当前命令行，不是普通文本或配置文件编辑器。 |
 | `slopd` | 尚未实现 | 当前 `/sbin/slop-init` 只是固定 ABI probe，没有 unit、dependency graph、service manager 或 supervision。 |
 | eBPF | 部分实现 | 独立 `no_std` crate 提供 8-byte instruction decode、无分配 verifier、ALU64/前向 branch/512-byte stack/helper 子集解释器；10 项宿主测试与内核返回 42 均已验证。没有 ELF loader、map、program type、attach point、权限模型或 JIT。 |

diff --git a/docs/known-issues.md b/docs/known-issues.md
@@ -4,8 +4,8 @@
 - IDT 已有关键 exception diagnostic gate，但 double fault 仍没有独立 IST，page fault 只能诊断并停止，不能 demand-page。
 - executor 固定为三个 task，没有 spawn、task ownership、cancellation 或 timer wheel。
 - framebuffer 渲染是全屏重绘，没有 damage tracking、double buffering 或 virtio-gpu。
-- 三个 surface 已使用 niri 式 tiled strip + floating layer。tile 支持 normal/tabbed stack、gap-aware resize/preset/maximize/center/expand、固定与方向 consume/expel、相邻及首末列 focus/reorder，以及保留 stack state 的整列跨 workspace move 和抽出 focused row 的单窗 move；floating window 始终在 tile 上方，可用 toggle 或显式目标 action 移入/移出与聚焦对应层，也支持方向移动、resize、跨 workspace move、标题栏拖动和 pointer resize。顺序叠加的 window rule 已分别支持 `open-on-workspace`、`open-floating true|false`、`open-focused true|false`、八向 `default-floating-position`、`default-column-width`/`default-window-height` 的空/fixed/proportion block、动态 `default-column-display "normal"|"tabbed"`、tiled-only `open-maximized true|false`、`open-maximized-to-edges true|false` 与 tiled/floating 共用的 `open-fullscreen true|false`；后匹配规则逐属性覆盖，初始宽高同时作用于 tiled/floating，display 作用于新开、拆列、单窗跨 workspace 与 floating→tiling 的 singleton column。`open-focused false` 在目标已有窗口时保留 tiled/floating 局部焦点，`true` 会激活 `open-on-workspace` 指定的后台 workspace；重建配置时其他 workspace 的旧焦点也会恢复。column maximize 保持 Waybar/gap；edge maximize 保留 Waybar但移除 gap/border并强制 scrolling layer；fullscreen 覆盖完整 output。三种状态同时存在时按 fullscreen→edge→column→规则尺寸逐层恢复。workspace 可按 niri 官方 PageUp/PageDown bindings 整体重排，persistent 名称、anonymous 身份、tiled/floating/fullscreen/focus 与 previous 一起移动；末尾空 anonymous workspace 不可重排。四组 `Mod[+Ctrl][+Shift]+WheelScrollUp/Down` 绑定与 150 ms 双包限流也已通过真实 IntelliMouse packet 验证，全局匹配优先于 Waybar 普通滚轮 action。`fullscreen-window` 已让 tiled/floating focused surface 覆盖整个 output，隐藏兄弟窗与 Waybar并隔离其 pointer hit-test，退出后恢复原 layer/geometry；它仍是 compositor bind 状态，不是 client-driven `xdg_toplevel.set_fullscreen`，也没有 windowed-fullscreen 或 multi-output 目标选择。`default-floating-position` 首次进入 floating 时按 working area 锚定，并在本次桌面状态内记住移动后的 rect；无规则时 tile→float 仍从当前屏幕 rect 推导有界尺寸，float→tile 按当前 focus 邻近插入；由于当前还没有 Wayland activation protocol，`open-focused` 表示 compositor 内部输入焦点，空 workspace 的唯一窗口仍必须成为内部 selection，非聚焦浮窗也不能像完整 niri 那样把键盘 activation 与 z-order 完全分离。尚无 client-driven fullscreen/maximize request/deny、`--focus=false` workspace move flag、父子窗/固定尺寸自动浮动、跨配置重建或重启的位置记忆、亚像素或允许越界的 `default-floating-position`、自由边缘 resize、tab 点击/拖曳或动画。`open-floating true` 与 edge maximize 同时命中时会按 niri 进入 scrolling layer，但取消 edge maximize 尚不会自动回到原 floating rect；normal stack 的 focused window edge-maximize 仍会拆成 singleton 且取消后不会自动并回。window `focus-ring` 仅实现 on/off、整数 width 与 active/inactive `#rrggbb[aa]` 固色，没有 gradient、urgent 或 draw-border-with-background；另有容量 4 的动态 workspace、最多 80 项 bind 和有序 exact `app-id` rule；`cooldown-ms` 已对任意已支持 bind 以 10 ms 精度限流并在配置重建时复位；只实现纵向 wheel key，未实现 `WheelScrollLeft/Right`、`repeat` 或其他 bind property 行为。PID 2 已跨 reload 常驻，但 compositor、surface、配置 bank 与 renderer 仍在 ring 0；没有可连接 Wayland client transport、任意数量 workspace、multi-output、完整 rule/action、overview 或通用 IPC。
-- window `focus-ring` 与 `border` 都支持 layout 默认值及有序 exact `app-id` 逐属性覆盖，包括 on/off、整数 width 与 active/inactive `#rrggbb[aa]` 固色。focus ring 只绘制 active window；border 为所有普通窗口选 active/inactive 色。默认 background-mode 以 outer focus ring、border、surface 的顺序合成，半透明 surface 因而显示 border 背景。尚无 gradient、urgent color 或可配置 `draw-border-with-background false`；早期 renderer 也不为 border 扩大 layout reserved geometry，column/edge maximize 的 decoration 隐藏还没有完整 niri 状态细分。
+- 三个 surface 已使用 niri 式 tiled strip + floating layer。tile 支持 normal/tabbed stack、gap-aware resize/preset/maximize/center/expand、固定与方向 consume/expel、相邻及首末列 focus/reorder，以及保留 stack state 的整列跨 workspace move 和抽出 focused row 的单窗 move；floating window 始终在 tile 上方，可用 toggle 或显式目标 action 移入/移出与聚焦对应层，也支持方向移动、resize、跨 workspace move、标题栏拖动和 pointer resize。顺序叠加的 window rule 已分别支持 `open-on-workspace`、`open-floating true|false`、`open-focused true|false`、八向 `default-floating-position`、`default-column-width`/`default-window-height` 的空/fixed/proportion block、动态 `default-column-display "normal"|"tabbed"`、tiled-only `open-maximized true|false`、`open-maximized-to-edges true|false` 与 tiled/floating 共用的 `open-fullscreen true|false`；后匹配规则逐属性覆盖，初始宽高同时作用于 tiled/floating，display 作用于新开、拆列、单窗跨 workspace 与 floating→tiling 的 singleton column。`open-focused false` 在目标已有窗口时保留 tiled/floating 局部焦点，`true` 会激活 `open-on-workspace` 指定的后台 workspace；重建配置时其他 workspace 的旧焦点也会恢复。column maximize 保持 Waybar/gap；edge maximize 保留 Waybar但移除 gap/border并强制 scrolling layer；fullscreen 覆盖完整 output。三种状态同时存在时按 fullscreen→edge→column→规则尺寸逐层恢复。workspace 可按 niri 官方 PageUp/PageDown bindings 整体重排，persistent 名称、anonymous 身份、tiled/floating/fullscreen/focus 与 previous 一起移动；末尾空 anonymous workspace 不可重排。四组 `Mod[+Ctrl][+Shift]+WheelScrollUp/Down` 绑定与 150 ms 双包限流也已通过真实 IntelliMouse packet 验证，全局匹配优先于 Waybar 普通滚轮 action。`fullscreen-window` 已让 tiled/floating focused surface 覆盖整个 output，隐藏兄弟窗与 Waybar并隔离其 pointer hit-test，退出后恢复原 layer/geometry；它仍是 compositor bind 状态，不是 client-driven `xdg_toplevel.set_fullscreen`，也没有 windowed-fullscreen 或 multi-output 目标选择。`default-floating-position` 首次进入 floating 时按 working area 锚定，并在本次桌面状态内记住移动后的 rect；无规则时 tile→float 仍从当前屏幕 rect 推导有界尺寸，float→tile 按当前 focus 邻近插入；由于当前还没有 Wayland activation protocol，`open-focused` 表示 compositor 内部输入焦点，空 workspace 的唯一窗口仍必须成为内部 selection，非聚焦浮窗也不能像完整 niri 那样把键盘 activation 与 z-order 完全分离。尚无 client-driven fullscreen/maximize request/deny、`--focus=false` workspace move flag、父子窗/固定尺寸自动浮动、跨配置重建或重启的位置记忆、亚像素或允许越界的 `default-floating-position`、自由边缘 resize、tab 点击/拖曳或动画。`open-floating true` 与 edge maximize 同时命中时会按 niri 进入 scrolling layer，但取消 edge maximize 尚不会自动回到原 floating rect；normal stack 的 focused window edge-maximize 仍会拆成 singleton 且取消后不会自动并回。window `focus-ring` 仅实现 on/off、整数 width 与 active/inactive `#rrggbb[aa]` 固色，没有 gradient 或 urgent；另有容量 4 的动态 workspace、最多 80 项 bind 和有序 exact `app-id` rule；`cooldown-ms` 已对任意已支持 bind 以 10 ms 精度限流并在配置重建时复位；只实现纵向 wheel key，未实现 `WheelScrollLeft/Right`、`repeat` 或其他 bind property 行为。PID 2 已跨 reload 常驻，但 compositor、surface、配置 bank 与 renderer 仍在 ring 0；没有可连接 Wayland client transport、任意数量 workspace、multi-output、完整 rule/action、overview 或通用 IPC。
+- window `focus-ring` 与 `border` 都支持 layout 默认值及有序 exact `app-id` 逐属性覆盖，包括 on/off、整数 width 与 active/inactive `#rrggbb[aa]` 固色。focus ring 只绘制 active window；border 为所有普通窗口选 active/inactive 色。`draw-border-with-background true|false` 也按有序 window rule 覆盖：无 SSD surface 默认 true，让半透明 surface 显示实色 decoration 背景；false 则将 border/focus ring 限制到 surface 外，border 启用时 focus ring 始终位于其外侧。尚无 gradient、urgent color 或 SSD/CSD heuristic 协商；早期 renderer 也不为 border 扩大 layout reserved geometry，column/edge maximize 的 decoration 隐藏还没有完整 niri 状态细分。
 - window `shadow` 已按 niri 默认值实现 layout 与 ordered exact `app-id` rule 的 on/off、softness、正负 spread、offset、draw-behind-window、`#rgb[a]`/`#rrggbb[aa]` active/inactive color；inactive 未配置时使用 active 的 75% alpha，fullscreen 不绘制 shadow。early framebuffer 使用有界 CPU 方框距离与二次 alpha falloff，不是 niri 的 GPU Gaussian rounded-rectangle shader；尚无 geometry corner radius、CSD shadow clip、颜色空间插值或 output scale。
 - window `opacity` 已按有序 exact `app-id` 规则动态解析并 clamp，非全屏 surface 用千分之一精度与后方 decoration/background 做 rounded RGB alpha blend，fullscreen 强制不透明。它仍只处理当前三个内核绘制 surface，没有 client 自带 alpha、subsurface/popup 的逐 surface 叠加、动态 matcher、`toggle-window-rule-opacity`、动画期间 opacity 插值或颜色管理。
 - niri KDL、Waybar JSONC/CSS 与 swww environment 已按 user/system/fallback 路径从 root VFS 加载，支持显式原子 reload 和 parse-before-swap rollback；`/sbin/slop-shell` 会在 4096/512-byte 上限内流式读取系统 Waybar/swww 文件，以 40-byte commit 连续提交实际文件摘要，并通过 32-byte policy/config event 跨 generation 休眠与恢复。独立 QEMU 回归验证了非默认 1300-byte Waybar JSONC，但没有普通配置编辑器、文件 watcher/inotify、per-user session 或通用跨进程配置服务。顶部栏已有常用 module normal/alternate format、format-alt-click、受限左/右/中键与上下滚轮 action、颜色/box/border CSS 子集，CPU/Memory 初值来自用户态 snapshot，其他 provider 仍固定；没有真实 polling、Pango、完整 GTK CSS、smooth-scroll threshold、POSIX shell 或 per-output。swww 风格状态机支持纯色 clear 与最多 8 KiB 的 root VFS P3/PNM path load；双 bank 会在完整动画后才释放旧图，missing/invalid 文件保留当前图。限制是相对路径固定相对 `/usr/share/slopos` 且由大写终端规范化为小写、不同尺寸图片的 transition 回退为 `none`；没有独立常驻 IPC/layer-shell process、PNG/JPEG/GIF、animated image、无界缓存、多 output 或精确帧时序。

diff --git a/docs/ext4.md b/docs/ext4.md
@@ -5,7 +5,7 @@ SlopOS 构建同时产生两个磁盘：
 - `slopos-esp.img`：64 MiB FAT32 ESP，仅由 UEFI loader 使用；
 - `slopos-root.ext4`：256 MiB、2 block-group ext4 root disk，由内核通过第二个 virtio-blk function 访问。
 
[2 lines of base64/hex data omitted]
 
 `slopos-ext4` 是无标准库、无分配 parser。当前验证：
 
